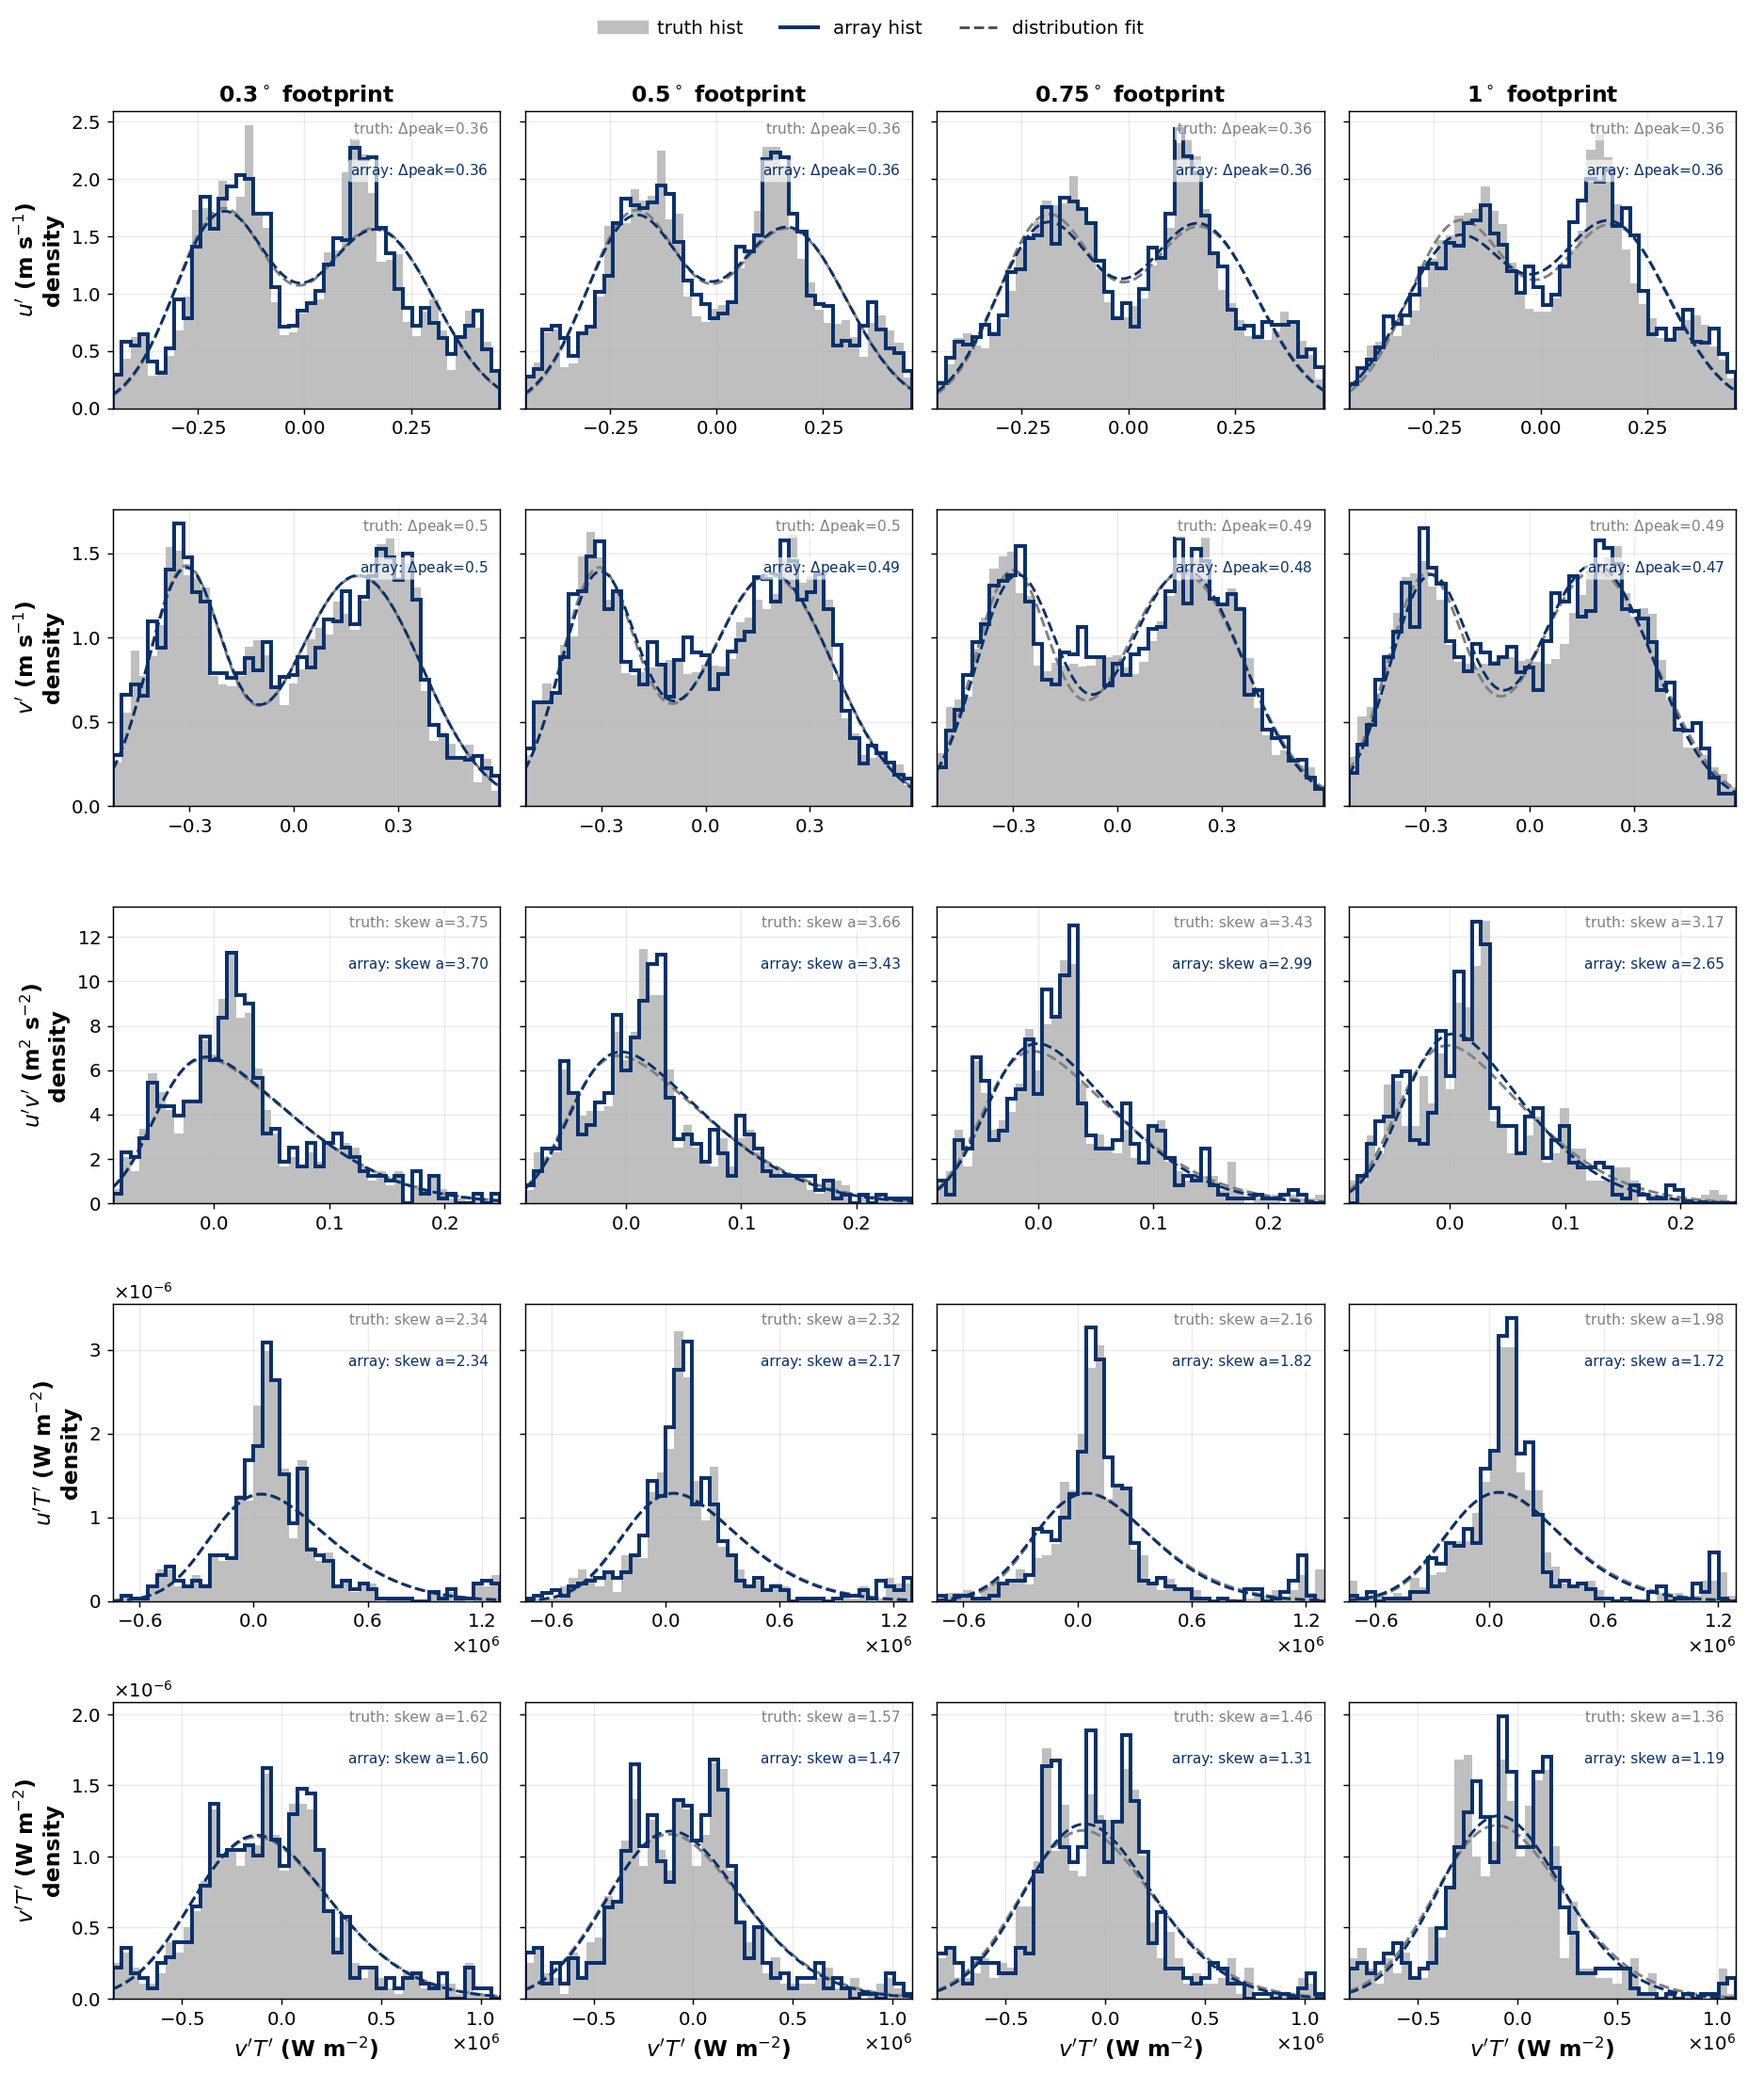
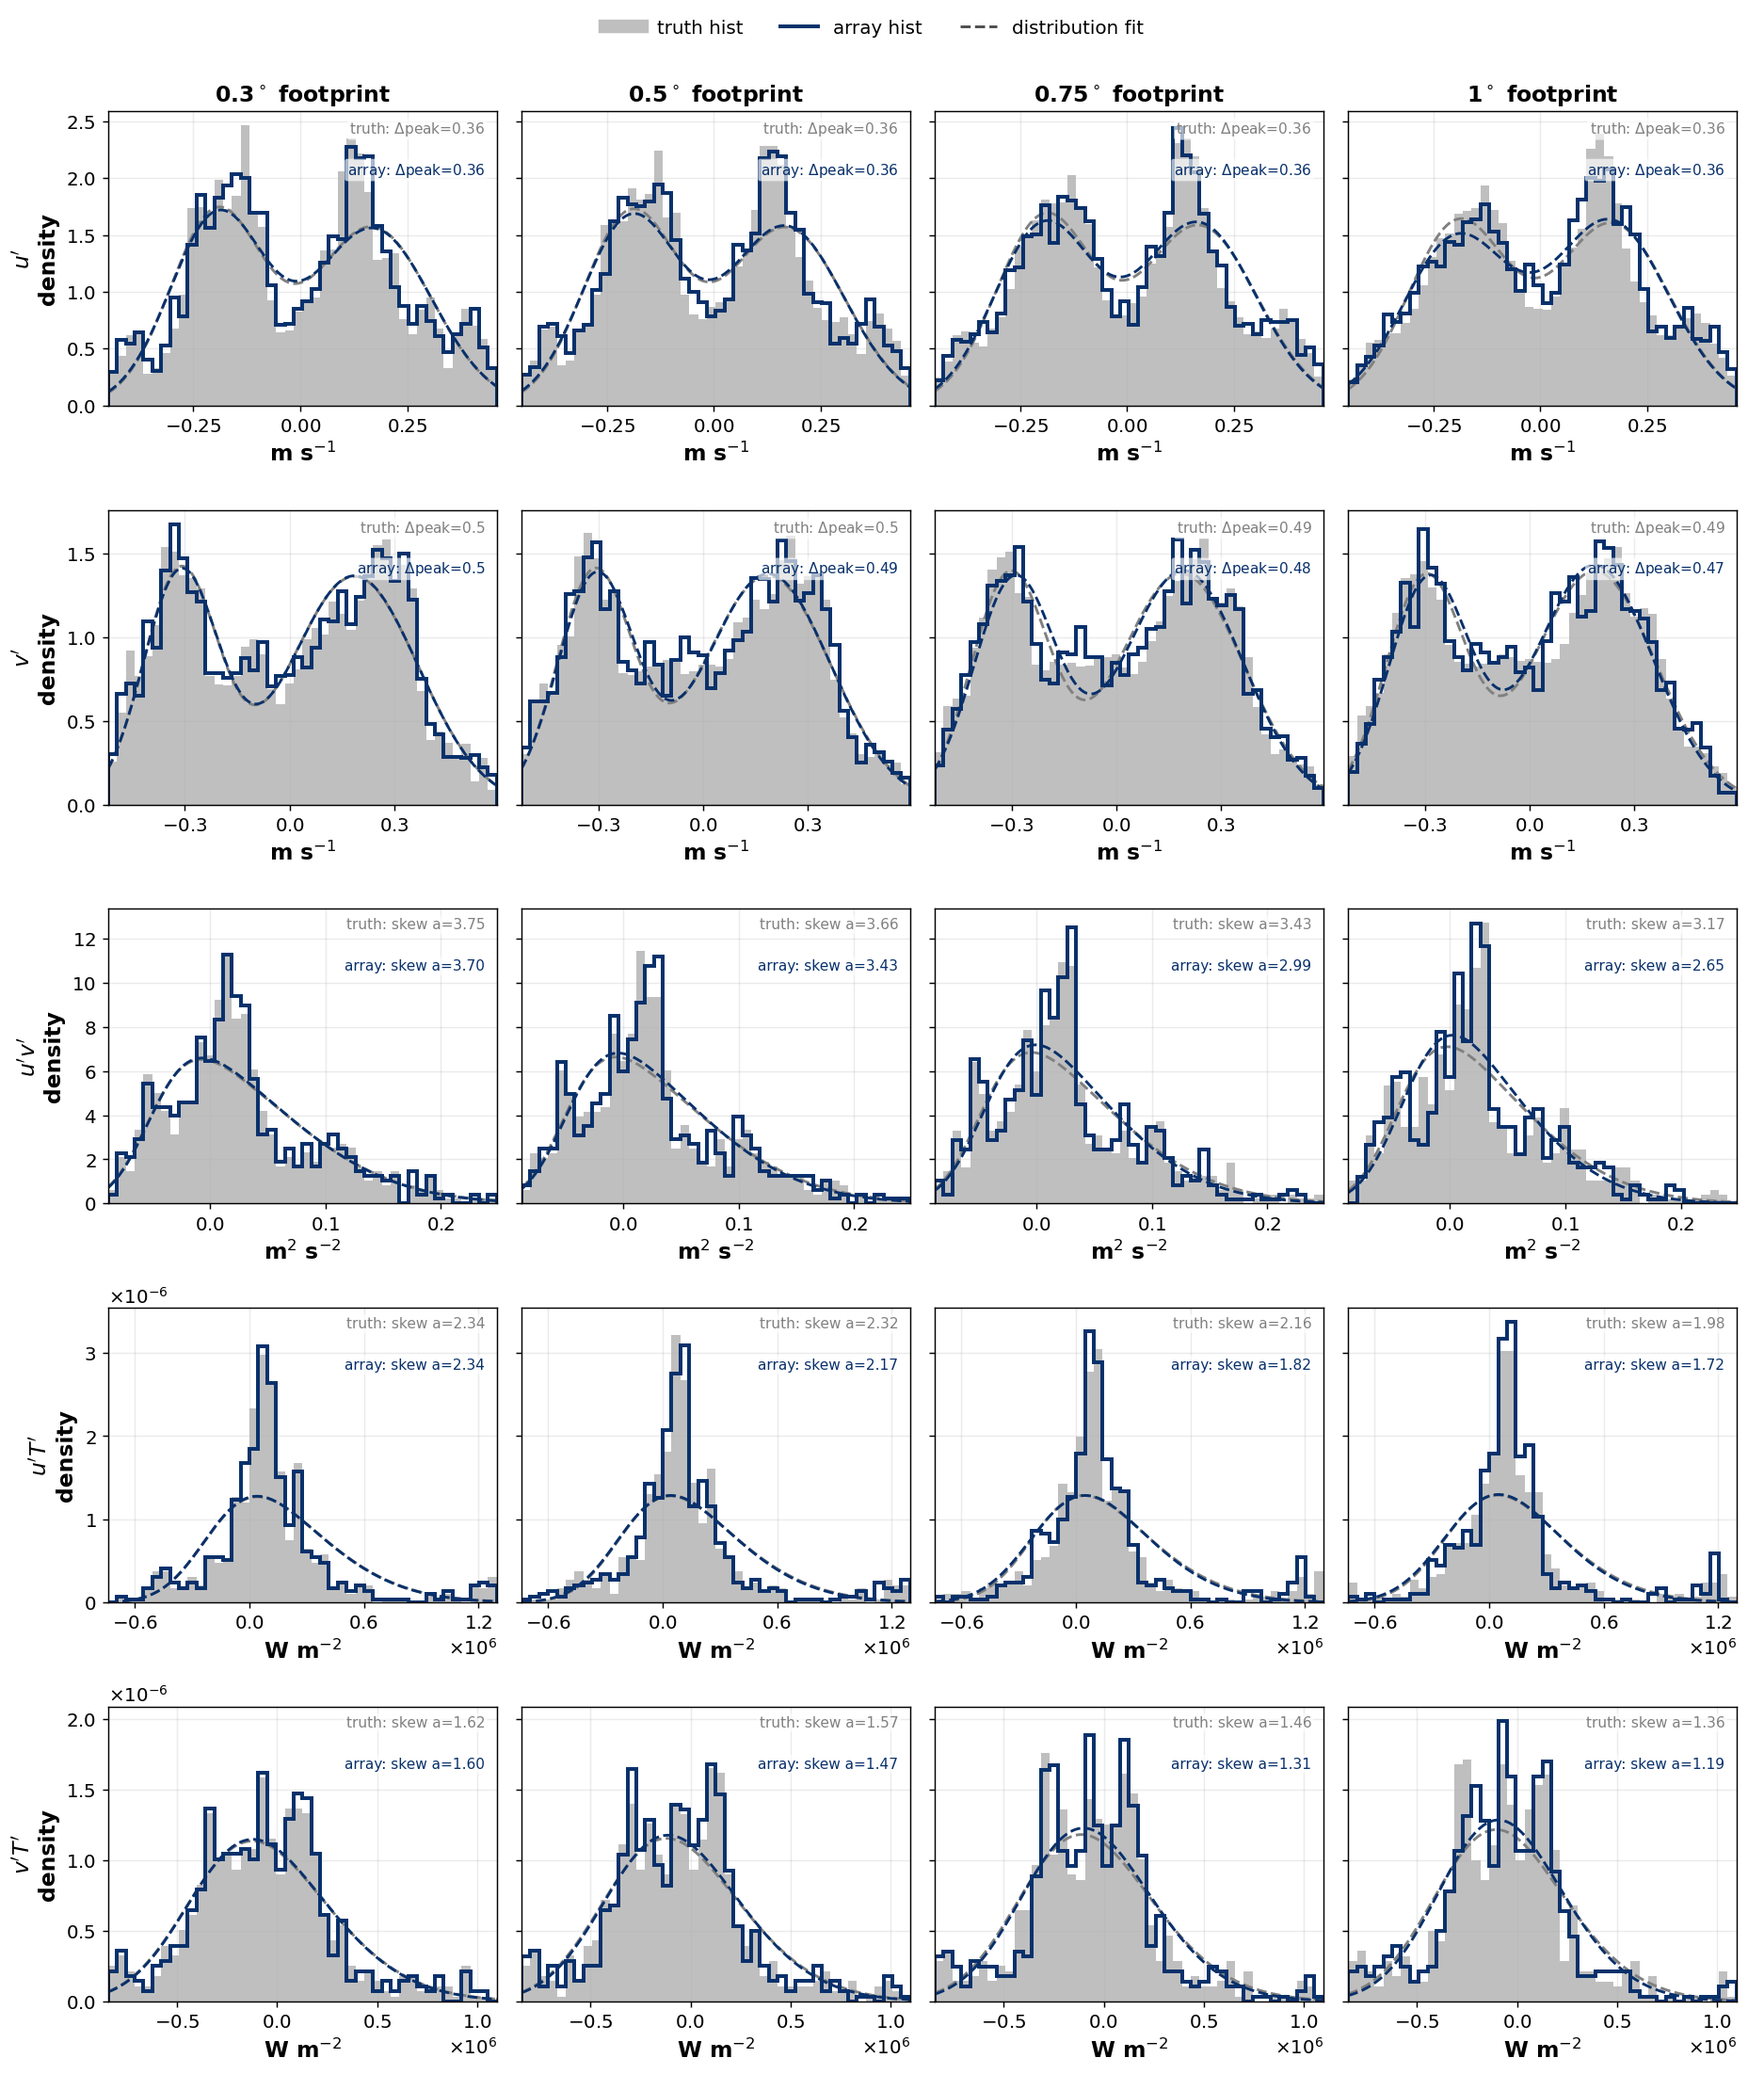
updating axis labeling for distribution plots

diff --git a/sampling_dynamics/run_distributions.py b/sampling_dynamics/run_distributions.py
@@ -14,10 +14,12 @@ Figures -> distributions/
                                    annotated JS / Wasserstein and their nulls.
   js_summary.png                   JS - JS_null vs diameter, one line per variable.
   moment_recovery.png              std ratio and skew, array vs truth, vs diameter.
-  fit_distributions.png            skew-normal fits to w and w'T', array vs truth.
+  fit_distributions.png            skew-normal fits to w, T' and w'T', array vs truth.
 
 Usage:  python run_distributions.py
 """
+
+import re
 
 import numpy as np
 import matplotlib.pyplot as plt
@@ -122,17 +124,23 @@ def fig_moment_recovery(out, z=None):
 
 # --------------------------------------------------------------------------- fig 4
 def _fit_samples(diam, z):
-    """(array, truth) 1-D samples of w, w'T' and w'u' at depth z for one diameter."""
+    """(array, truth) 1-D samples of w, T', w'T' and w'u' at depth z for one diameter."""
     import run_transport as T
     arr = P.load_array(diam); hull = P.load_hull(diam); cloud = P.load_cloud(diam)
+
+    def anom(ds):                                       # pooled T fluctuation about time mean
+        a = (ds['T'] - ds['T'].mean('time')).interp(obs_depth=z)
+        return np.asarray(a.values).ravel()
+
     w = (np.asarray(arr['w_est_mid'].interp(obs_depth=z).values).ravel() * C.SEC_PER_DAY,
          _pool(cloud, 'W', 'point', z) * C.SEC_PER_DAY)
+    Tp = (anom(arr), anom(cloud))
     wT = (np.asarray(T.array_vert_flux(arr, 'w_est_mid', 'T').interp(obs_depth=z).values).ravel() * C.HFLUX,
           np.asarray(hull['wT'].interp(obs_depth=z).values).ravel() * C.HFLUX)
     wU = (np.asarray(T.array_vert_flux(arr, 'w_est_mid', 'U').interp(obs_depth=z).values).ravel(),
           np.asarray(hull['wU'].interp(obs_depth=z).values).ravel())
-    return {'w (m day$^{-1}$)': w, "$w'T'$ (W m$^{-2}$)": wT,
-            "$w'u'$ (m$^2$ s$^{-2}$)": wU}
+    return {'w (m day$^{-1}$)': w, "$T'$ ($^\\circ$C)": Tp,
+            "$w'T'$ (W m$^{-2}$)": wT, "$w'u'$ (m$^2$ s$^{-2}$)": wU}
 
 
 def _fit_samples_uv(diam, z):
@@ -223,10 +231,11 @@ def _fit_grid(out, per_diam, fname, bimodal_labels=frozenset()):
             P.tidy_x(ax, 4)
             if ri == 0:
                 ax.set_title(f'{d:g}$^\\circ$ footprint')
-            if ri == nr - 1:
-                ax.set_xlabel(lab)
+            m = re.search(r'\(([^()]*)\)\s*$', lab)       # x-axis: units only, no name
+            ax.set_xlabel(m.group(1) if m else lab)
             if ci == 0:
-                ax.set_ylabel(f'{lab}\ndensity')
+                name = re.sub(r'\s*\([^()]*\)\s*$', '', lab)   # y-axis: name only, no units
+                ax.set_ylabel(f'{name}\ndensity')
     # pack the axes up to the figure top, reserving only a thin strip for the legend so
     # tall (many-row) grids don't leave a big empty band under the legend
     fig_h = 3.4 * nr
